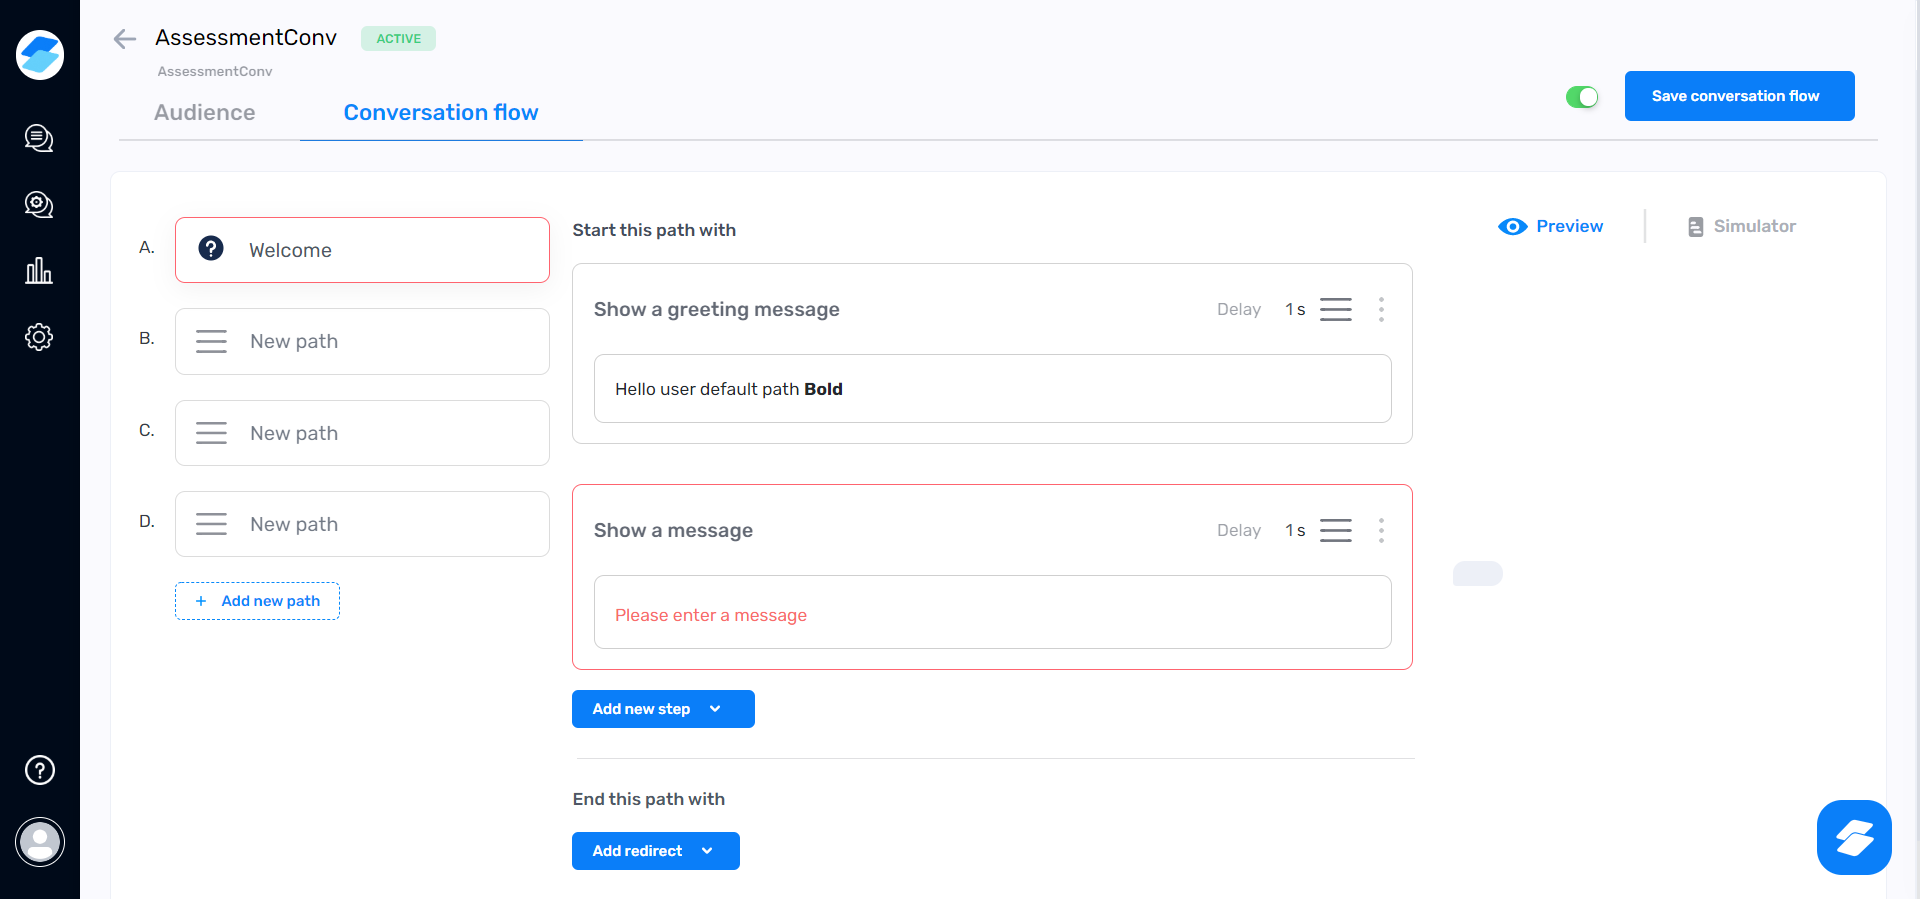
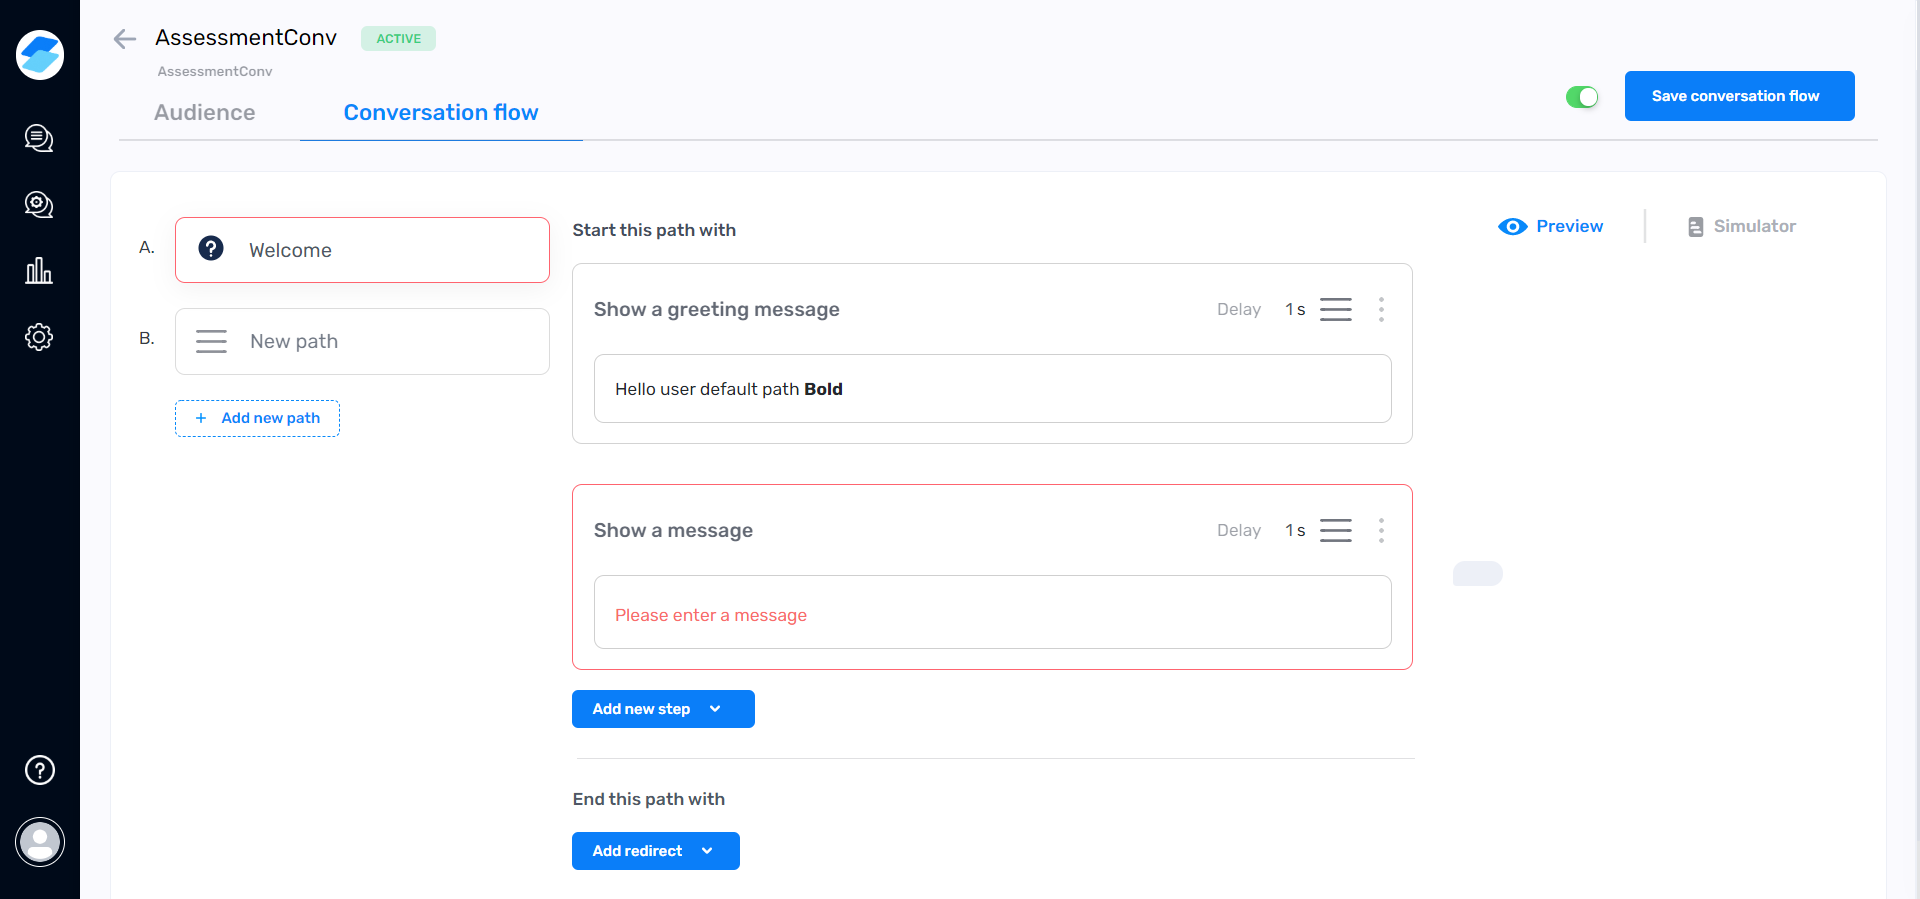
Created testcases

diff --git a/methodRepo.py b/methodRepo.py
@@ -39,8 +39,8 @@ def signin(emailVal, passwordVal, url):
 
         element = WebDriverWait(driver, 20).until(EC.element_to_be_clickable((By.XPATH, conversation_flow.conversation_flow)))
         element.click()
-    except:
-        print("Some error occurred while signing in")
+    except Exception as e:
+        print(e)
         closeBrowser()
 
 def create_convStep(stepName):
@@ -50,8 +50,11 @@ def create_convStep(stepName):
 
         convType = conversation_flow.convStep_type.replace('@@@', stepName)
         driver.find_element_by_xpath(convType).click()
-    except:
-        print("Some exception occurred")
+        return True
+    except Exception as e:
+        print(e)
+        closeBrowser()
+
 def showMessage():
     try:
         preview_text = WebDriverWait(driver, 10).until(EC.element_to_be_clickable((By.XPATH, conversation_flow.preview_sampleText)))
@@ -77,9 +80,11 @@ def showMessage():
         success_msg = WebDriverWait(driver, 10).until(EC.element_to_be_clickable((By.XPATH, conversation_flow.save_success_alert)))
         if success_msg is not None :
             driver.save_screenshot('./screenshots/convSaved.png')
+            return True
         else:
             raise AssertionError
     except AssertionError:
+        return False
         print("Success message not visible")
         closeBrowser()
 
@@ -90,8 +95,9 @@ def del_step(stepName):
         ellipses.click()
 
         driver.find_element_by_xpath(conversation_flow.del_step).click()
-    except:
-        print("Some error occurred!")
+        return True
+    except Exception as e:
+        print e
         closeBrowser()
 
 def verify_Preview(stepName):
@@ -155,10 +161,11 @@ def add_Redirect(redirectType, pathName1="MyPath", pathName2="SecondPath"):
         action.send_keys(pathName1)
         action.send_keys(Keys.RETURN)
         action.perform()
+        return True
     else:
         #In-Progress
         pass
-    closeBrowser()
+    # closeBrowser()
 
 def add_path(pathName="MyPath"):
     try:
@@ -171,8 +178,10 @@ def add_path(pathName="MyPath"):
         pathElems[-1].send_keys(Keys.BACKSPACE)
         pathElems[-1].send_keys(pathName)
         pathElems[-1].send_keys(Keys.RETURN)
-    except:
-        print('Some error occurred')
+        return True
+    except Exception as e:
+        print(e)
+        closeBrowser()
 
 def rem_path():
     try:
@@ -183,8 +192,9 @@ def rem_path():
         rem_icon = driver.find_element_by_xpath(conversation_flow.remove_path_icon)
         action.move_to_element(rem_icon).perform()
         action.click(on_element=rem_icon).perform()
-    except:
-        print("Some error occurred")
+        return True
+    except Exception as e:
+        print(e)
 
 def verify_delPath():
     try:
@@ -197,15 +207,139 @@ def verify_delPath():
     closeBrowser()
     return False
 
+def stepOrderChange():
+#Not complete
+    elements = driver.find_elements_by_xpath(conversation_flow.stepsDiv)
+    if len(elements) < 2:
+        print("Steps not enogh to execute this step")
+        return False
+    else:
+        sourceElem = elements[1]
+        destElem = elements[2]
+        # action.drag_and_drop(elements[2], driver.find_element_by_xpath(conversation_flow.add_redirect_btn))
+        action.click_and_hold(elements[1]).pause(4).move_to_element(elements[2]).release(elements[2]).perform()
+        # action.perform()
+
+def addDelay(stepName='Show a message', delay='2'):
+    delayIpLoc = conversation_flow.delayInput.replace('@@@', stepName)
+    delayIp = driver.find_element_by_xpath(delayIpLoc)  
+    delayIp.click()
+    delayIp.send_keys(Keys.CONTROL + 'a')
+    delayIp.send_keys(Keys.BACKSPACE)
+    delayIp.send_keys(delay)
+
+    action.move_to_element(driver.find_element_by_xpath(conversation_flow.save_conv_btn))
+    action.click(on_element=driver.find_element_by_xpath(conversation_flow.save_conv_btn))
+    action.perform()  
+
+    success_msg = WebDriverWait(driver, 10).until(EC.element_to_be_clickable((By.XPATH, conversation_flow.save_success_alert)))
+    if success_msg is not None :
+         driver.save_screenshot('./screenshots/convSaved.png')
+    else:
+        raise AssertionError
+
+def editPathName():
+    try:
+        pathsLoc = conversation_flow.path_inputs.replace('@@@','New path')
+        paths = driver.find_elements_by_xpath(pathsLoc)
+        if 'list' in str(type(paths)) :
+            paths = paths[0]
+        paths.click()
+        paths.send_keys(Keys.CONTROL + 'a')
+        paths.send_keys(Keys.BACKSPACE)
+        paths.send_keys(data.Field_Name)
+
+        action.move_to_element(driver.find_element_by_xpath(conversation_flow.save_conv_btn))
+        action.click(driver.find_element_by_xpath(conversation_flow.save_conv_btn))
+        print(paths.get_attribute('value'))
+        if paths.get_attribute('value') in data.Field_Name:
+            return True
+        else:
+            return False
+    except Exception as e:
+        print(e)
+        closeBrowser()
+
+def validateAddNewSteps():
+    try:
+        testVal = []
+        element = WebDriverWait(driver, 20).until(EC.element_to_be_clickable((By.ID, 'AddNewStepButton')))
+        element.click()
+
+        steptypes = driver.find_elements_by_xpath(conversation_flow.stepsTypes)
+        for types in steptypes:
+            testVal.append(types)
+        if testVal == data.stepTypes:
+            return True
+        else: 
+            return False
+    except Exception as e:
+        print(e)
+        closeBrowser()
+
+def createCustomField():
+    try:
+        FieldName = driver.find_element_by_xpath(conversation_flow.field_dd)
+        FieldName.click()
+        action.send_keys(data.Field_Name)
+        action.send_keys(Keys.RETURN)
+        action.perform()
+        driver.find_element_by_xpath(conversation_flow.customFieldSubmit).click()
+    except Exception as e:
+        print(e)
+        
+def verifyCustomField():
+    try:
+        FieldName = driver.find_element_by_xpath(conversation_flow.field_dd)
+        FieldName.click()
+        action.send_keys(Keys.ARROW_UP)
+        action.send_keys(Keys.RETURN)
+        action.perform()
+
+        fieldHeadingLoc = conversation_flow.FieldInput.replace('@@@',data.Field_Name)
+        fieldHeading = driver.find_element_by_xpath(fieldHeadingLoc)
+        if fieldHeading is not None:
+            return True
+        else:
+            return False
+    except Exception as e:
+        print(e)
+        closeBrowser()
+
+def verifyRoutingSteps(times):
+    try:
+        addStepLoc = conversation_flow.routingSteps.replace('@@@','Add routing step')
+        routingStepsLoc = conversation_flow.routingSteps.replace('@@@','Alert')
+
+        for i in range(0, times):
+            action.move_to_element(driver.find_element_by_xpath(addStepLoc))
+            driver.find_element_by_xpath(addStepLoc).click()
+
+        routingElems = driver.find_elements_by_xpath(routingStepsLoc)
+        if len(routingElems) == times+1:
+            return True
+        else:
+            return False
+    except Exception as e:
+        print(e)
+
 def closeBrowser():
     driver.close()
 
-signin(data.emailID_val, data.password_Val, data.URL)
-add_path()
-add_Redirect('Go to path')
-rem_path()
-# create_convStep('Show plain text input')
-# print(add_conditions('Show plain text input'))
-# print(remCondition('Show plain text input'))
-# verify_Preview('Show plain text input')
+def IA_14():
+    #Validate 'end this path with' field if an associated path is deleted
+    try:
+        signin(data.emailID_val, data.password_Val,data.URL)
+        addpath = add_path()
+        rempath = rem_path()
+        verify = verify_delPath()
+        if addpath and rem_path and verify:
+            print("IA14 Pass")
+        else:
+            print("IA14 Fail")
+    except Exception as e:
+        print(e)
+
+# signin(data.emailID_val, data.password_Val,data.URL)
+# create_convStep('Show a message')
 # del_step('Show a message')

diff --git a/Locators/conversation_flow.py b/Locators/conversation_flow.py
@@ -16,6 +16,8 @@ del_step = "//div[contains(text(),'Delete step')]"
 add_condition_step = "//div[contains(text(),'Add condition')]"
 rem_condition_step = "//div[contains(text(),'Remove condition')]"
 preview_btn = "//div[contains(text(),'Preview')]"
+delayInput = "//div[contains(text(),'@@@')]/../div/div/div/div/input"
+stepsTypes = "//div[@id='PopupContainer']/div/div"
 
 empty_input_field = "//div[@class='text-danger mt-1' and contains(.,'Please enter a message')]"
 
@@ -30,6 +32,9 @@ field_dd = "//div[contains(text(),'Select or type to create a new field')]/.."
 field_heading = "//div[contains(text(), '@@@')]"
 plainText_ip = "//div[contains(text(), 'User sends an input')]"
 redirectPathField = "//div[contains(text(),'Select a path')]/.."
+removeFieldIcon = "(//div[contains(text(), '@@@')]/../../div/div/*[name()='svg'])[1]"
+customFieldSubmit = "//button/span/span[contains(text(),'Create field')]"
+FieldInput = "(//div[contains(text(), '@@@')])[1]"
 
 #conditions
 conHeading = "//button/span/span[contains(text(),'Show conditions')]"
@@ -38,3 +43,9 @@ conHeading = "//button/span/span[contains(text(),'Show conditions')]"
 path_inputs = "//input[@value='@@@']"
 remove_path_icon = "(//input[@value='MyPath']/../../../../span/div/*[name()='svg'])"
 empty_pathField = "//div[contains(text(), 'This field cannot be empty')]"
+
+#draggableContent
+stepsDiv = "//div[@data-rbd-droppable-id='droppable']/div/div/div/div"
+
+#Alert
+routingSteps = "//div[contains(text(),'@@@')]"

diff --git a/IA_14.py b/IA_14.py
@@ -1,0 +1,15 @@
+from methodRepo import *
+
+#Validate 'end this path with' field if an associated path is deleted
+try:
+    signin(data.emailID_val, data.password_Val,data.URL)
+    addpath = add_path()
+    redirectAdd = add_Redirect('Go to path')
+    rempath = rem_path()
+    verify = verify_delPath()
+    if addpath and rempath and verify and redirectAdd:
+        print("IA14 Pass")
+    else:
+        print("IA14 Fail")
+except Exception as e:
+        print(e)

diff --git a/IA_12.py b/IA_12.py
@@ -1,0 +1,13 @@
+from methodRepo import *
+#Delete a step
+try:
+    signin(data.emailID_val, data.password_Val,data.URL)
+    createStep = create_convStep('Show a message')
+    deleteStep = del_step('Show a message')
+    if createStep and deleteStep:
+        print("IA12 Pass")
+    else:
+        print("IA12 Fail")
+    closeBrowser()
+except Exception as e:
+    print(e)

diff --git a/IA_3.py b/IA_3.py
@@ -1,0 +1,14 @@
+from methodRepo import *
+#Add new Step - show a message
+try:
+    signin(data.emailID_val, data.password_Val,data.URL)
+    createStep = create_convStep('Show a message')
+    showMsg = showMessage()
+    if createStep and showMsg:
+        print("IA3 Pass")
+    else:
+        print("IA3 Fail")
+    closeBrowser()
+except Exception as e:
+    print(e)
+

diff --git a/data/data.py b/data/data.py
@@ -5,4 +5,6 @@ password_Val = "@@@"
 conversation_name = "AssessmentConv"
 
 input_text_1 = "My Test text"
-Field_Name = "First Name"
+Field_Name = "CustomFieldD"
+
+stepTypes = ['Show a message', 'Capture user data', 'Show a calendar link', 'Show a greeting message', 'Connect to an agent', 'Show plain text input', 'Show preset replies']
